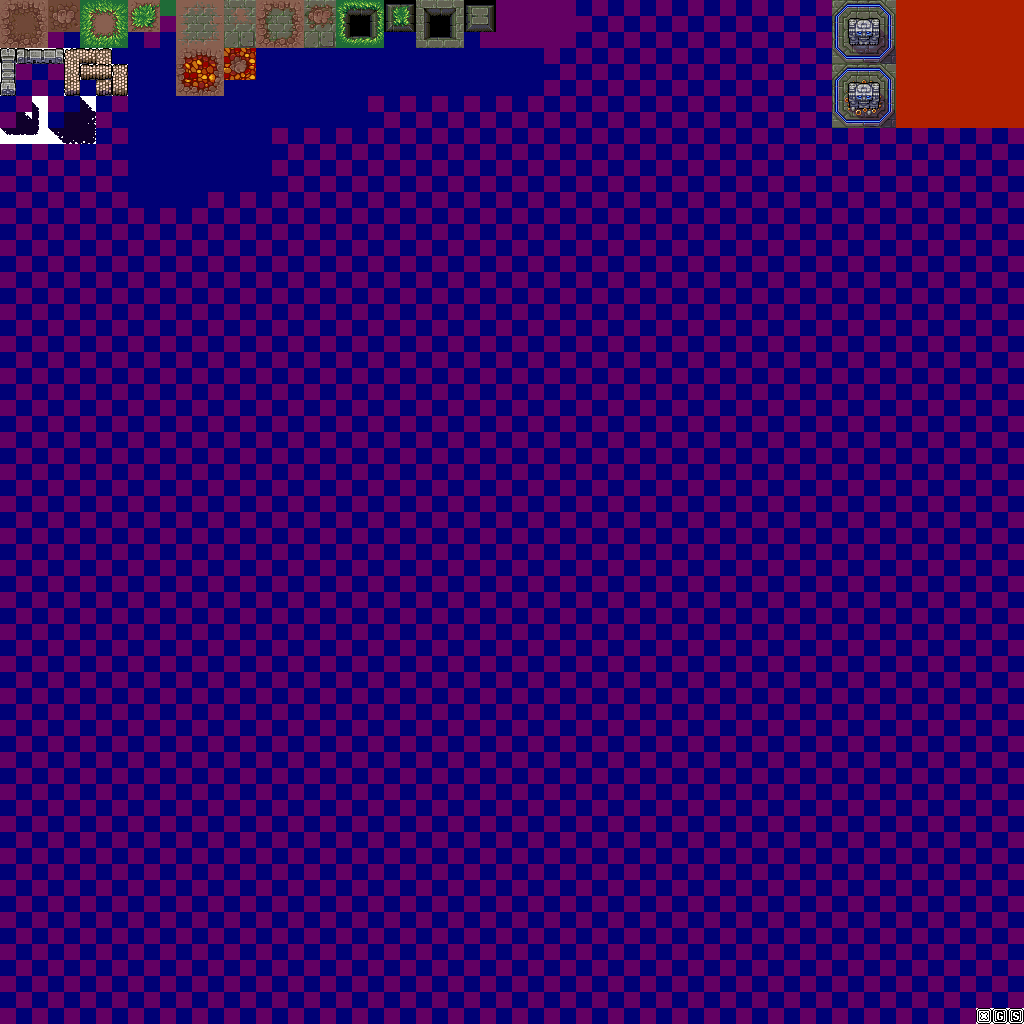
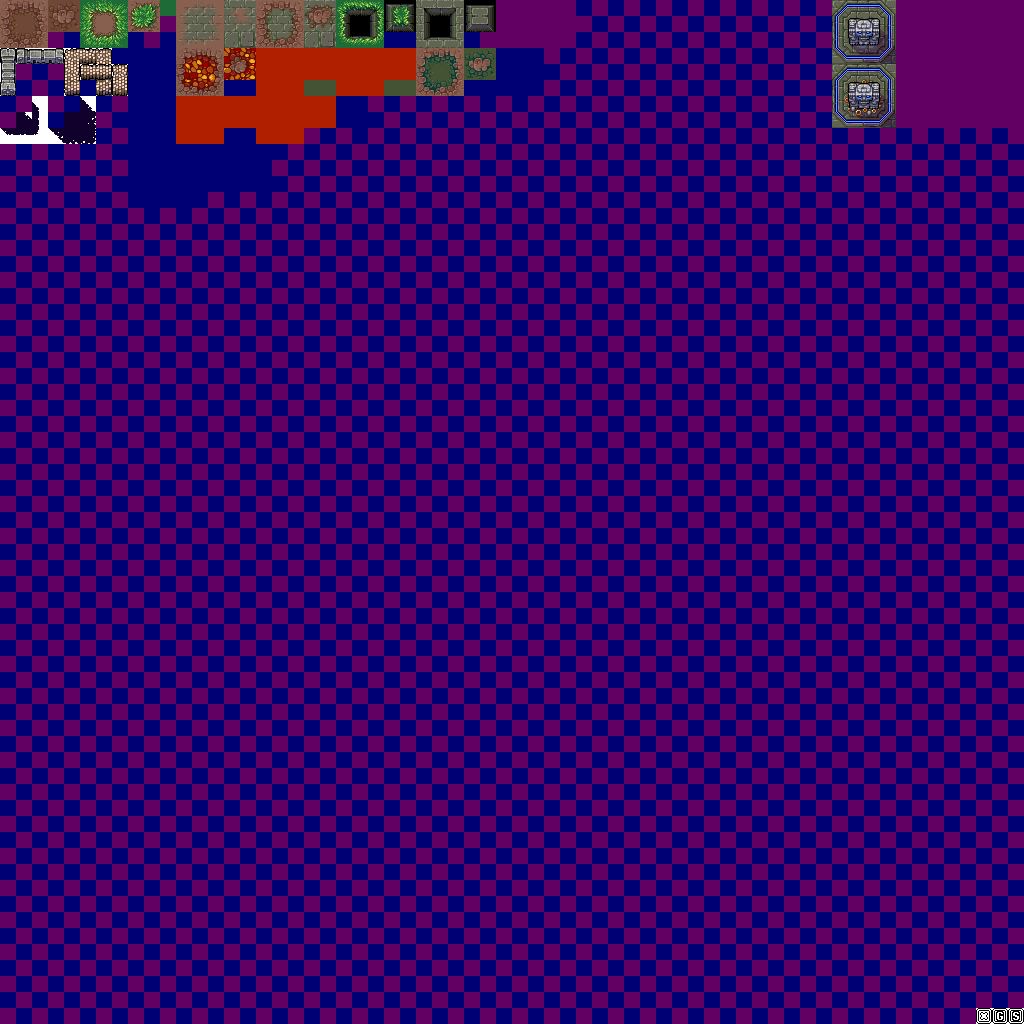
Added Mud terrain into tilesheet. Per tile collision shapes are in, with Type "Mud".

Changed region(s): [[0.1562, 0.0312, 0.5, 0.1562], [0.875, 0.0, 1.0, 0.125]]

diff --git a/Teotihuacan/Content/Levels/TileSet_Main.tsx b/Teotihuacan/Content/Levels/TileSet_Main.tsx
@@ -10,7 +10,8 @@
   <terrain name="Shadow small" tile="386"/>
   <terrain name="Shadow big" tile="389"/>
   <terrain name="Pit" tile="26"/>
-  <terrain name="Fire pit" tile="0"/>
+  <terrain name="Fire pit" tile="268"/>
+  <terrain name="Mud" tile="283"/>
  </terraintypes>
  <tile id="0" type="Ground" terrain="0,0,0,1"/>
  <tile id="1" type="Ground" terrain="0,0,1,1"/>
@@ -256,11 +257,33 @@
  <tile id="215" type="Pit"/>
  <tile id="216" type="Pit"/>
  <tile id="217" type="Pit"/>
- <tile id="218" type="Pit"/>
- <tile id="219" type="Pit"/>
- <tile id="220" type="Pit"/>
- <tile id="221" type="Pit"/>
- <tile id="222" type="Pit"/>
+ <tile id="218" type="Pit" terrain="0,0,0,9">
+  <objectgroup draworder="index">
+   <object id="1" type="Mud" x="8" y="8" width="8" height="8"/>
+  </objectgroup>
+ </tile>
+ <tile id="219" type="Pit" terrain="0,0,9,9">
+  <objectgroup draworder="index">
+   <object id="1" type="Mud" x="0" y="8" width="16" height="8"/>
+  </objectgroup>
+ </tile>
+ <tile id="220" type="Pit" terrain="0,0,9,0">
+  <objectgroup draworder="index">
+   <object id="1" type="Mud" x="0" y="8" width="8" height="8"/>
+  </objectgroup>
+ </tile>
+ <tile id="221" type="Pit" terrain="9,9,9,0">
+  <objectgroup draworder="index">
+   <object id="1" type="Mud" x="0" y="8" width="8" height="8"/>
+   <object id="2" type="Mud" x="0" y="0" width="16" height="8"/>
+  </objectgroup>
+ </tile>
+ <tile id="222" type="Pit" terrain="9,9,0,9">
+  <objectgroup draworder="index">
+   <object id="1" type="Mud" x="8" y="8" width="8" height="8"/>
+   <object id="2" type="Mud" x="0" y="0" width="16" height="8"/>
+  </objectgroup>
+ </tile>
  <tile id="223" type="Pit"/>
  <tile id="224" type="Pit"/>
  <tile id="225" type="Pit"/>
@@ -302,11 +325,29 @@
  <tile id="278" type="Pit"/>
  <tile id="279" type="Pit"/>
  <tile id="281" type="Pit"/>
- <tile id="282" type="Pit"/>
- <tile id="283" type="Pit"/>
- <tile id="284" type="Pit"/>
- <tile id="285" type="Pit"/>
- <tile id="286" type="Pit"/>
+ <tile id="282" type="Pit" terrain="0,9,0,9">
+  <objectgroup draworder="index">
+   <object id="1" type="Mud" x="8" y="0" width="8" height="16"/>
+  </objectgroup>
+ </tile>
+ <tile id="283" type="Pit" terrain="9,9,9,9"/>
+ <tile id="284" type="Pit" terrain="9,0,9,0">
+  <objectgroup draworder="index">
+   <object id="1" type="Mud" x="0" y="0" width="8" height="16"/>
+  </objectgroup>
+ </tile>
+ <tile id="285" type="Pit" terrain="9,0,9,9">
+  <objectgroup draworder="index">
+   <object id="1" type="Mud" x="0" y="0" width="8" height="8"/>
+   <object id="2" type="Mud" x="0" y="8" width="16" height="8"/>
+  </objectgroup>
+ </tile>
+ <tile id="286" type="Pit" terrain="0,9,9,9">
+  <objectgroup draworder="index">
+   <object id="1" type="Mud" x="8" y="0" width="8" height="8"/>
+   <object id="2" type="Mud" x="0" y="8" width="16" height="8"/>
+  </objectgroup>
+ </tile>
  <tile id="287" type="Pit"/>
  <tile id="288" type="Pit"/>
  <tile id="289" type="Pit"/>
@@ -342,9 +383,21 @@
  <tile id="343" type="Pit"/>
  <tile id="344" type="Pit"/>
  <tile id="345" type="Pit"/>
- <tile id="346" type="Pit"/>
- <tile id="347" type="Pit"/>
- <tile id="348" type="Pit"/>
+ <tile id="346" type="Pit" terrain="0,9,0,0">
+  <objectgroup draworder="index">
+   <object id="1" type="Mud" x="8" y="0" width="8" height="8"/>
+  </objectgroup>
+ </tile>
+ <tile id="347" type="Pit" terrain="9,9,0,0">
+  <objectgroup draworder="index">
+   <object id="1" type="Mud" x="0" y="0" width="16" height="8"/>
+  </objectgroup>
+ </tile>
+ <tile id="348" type="Pit" terrain="9,0,0,0">
+  <objectgroup draworder="index">
+   <object id="1" type="Mud" x="0" y="0" width="8" height="8"/>
+  </objectgroup>
+ </tile>
  <tile id="349" type="Pit"/>
  <tile id="350" type="Pit"/>
  <tile id="351" type="Pit"/>
